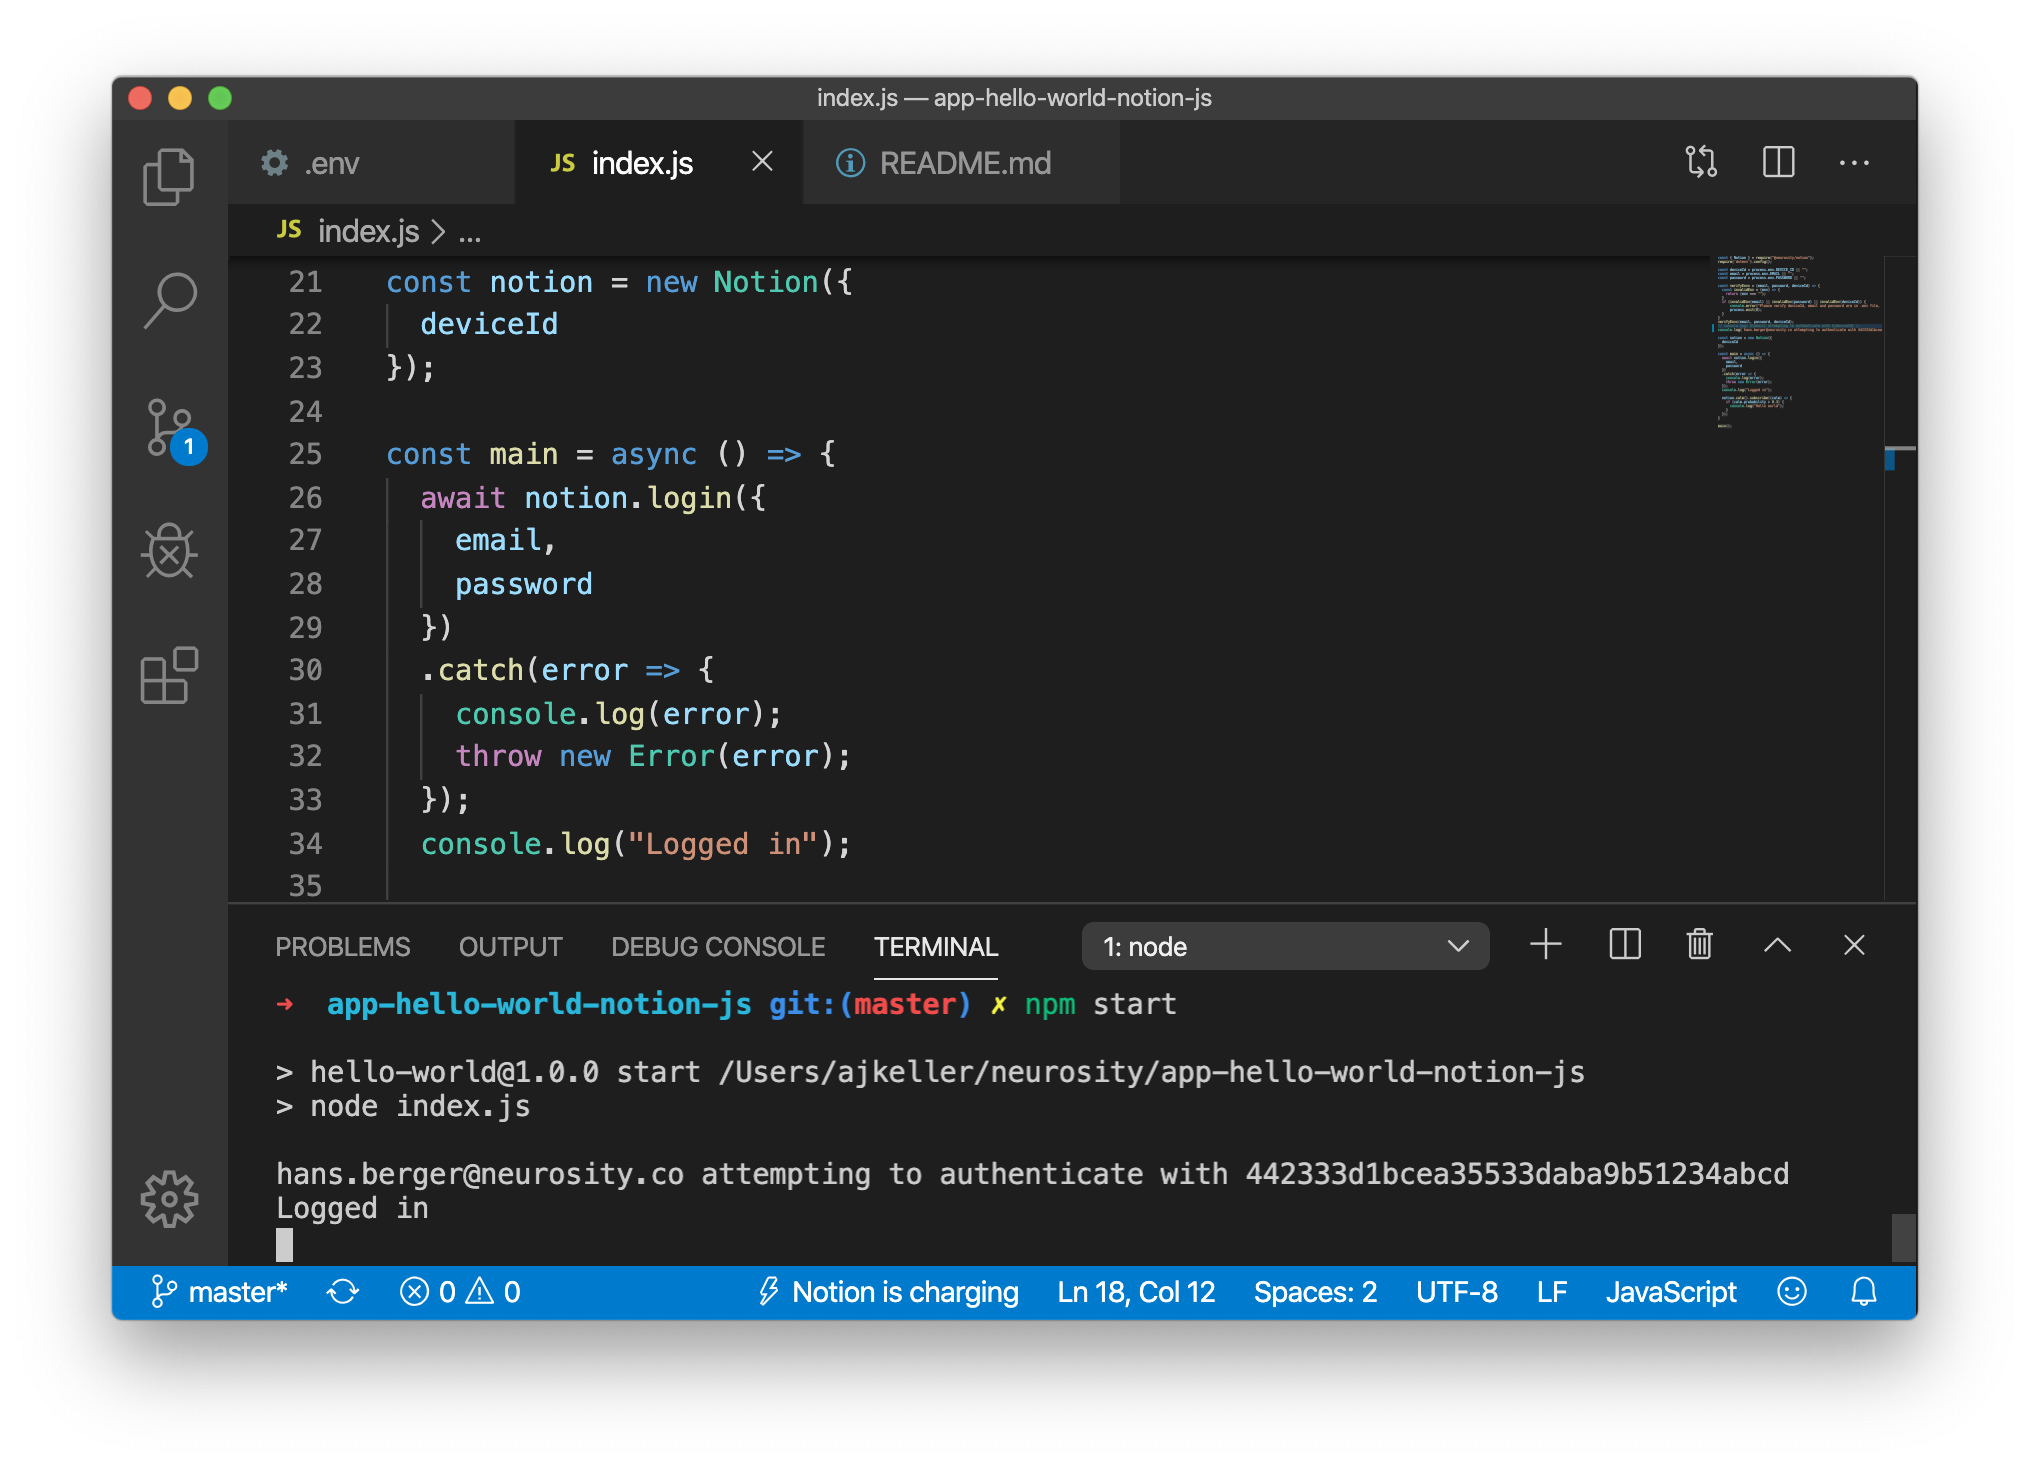
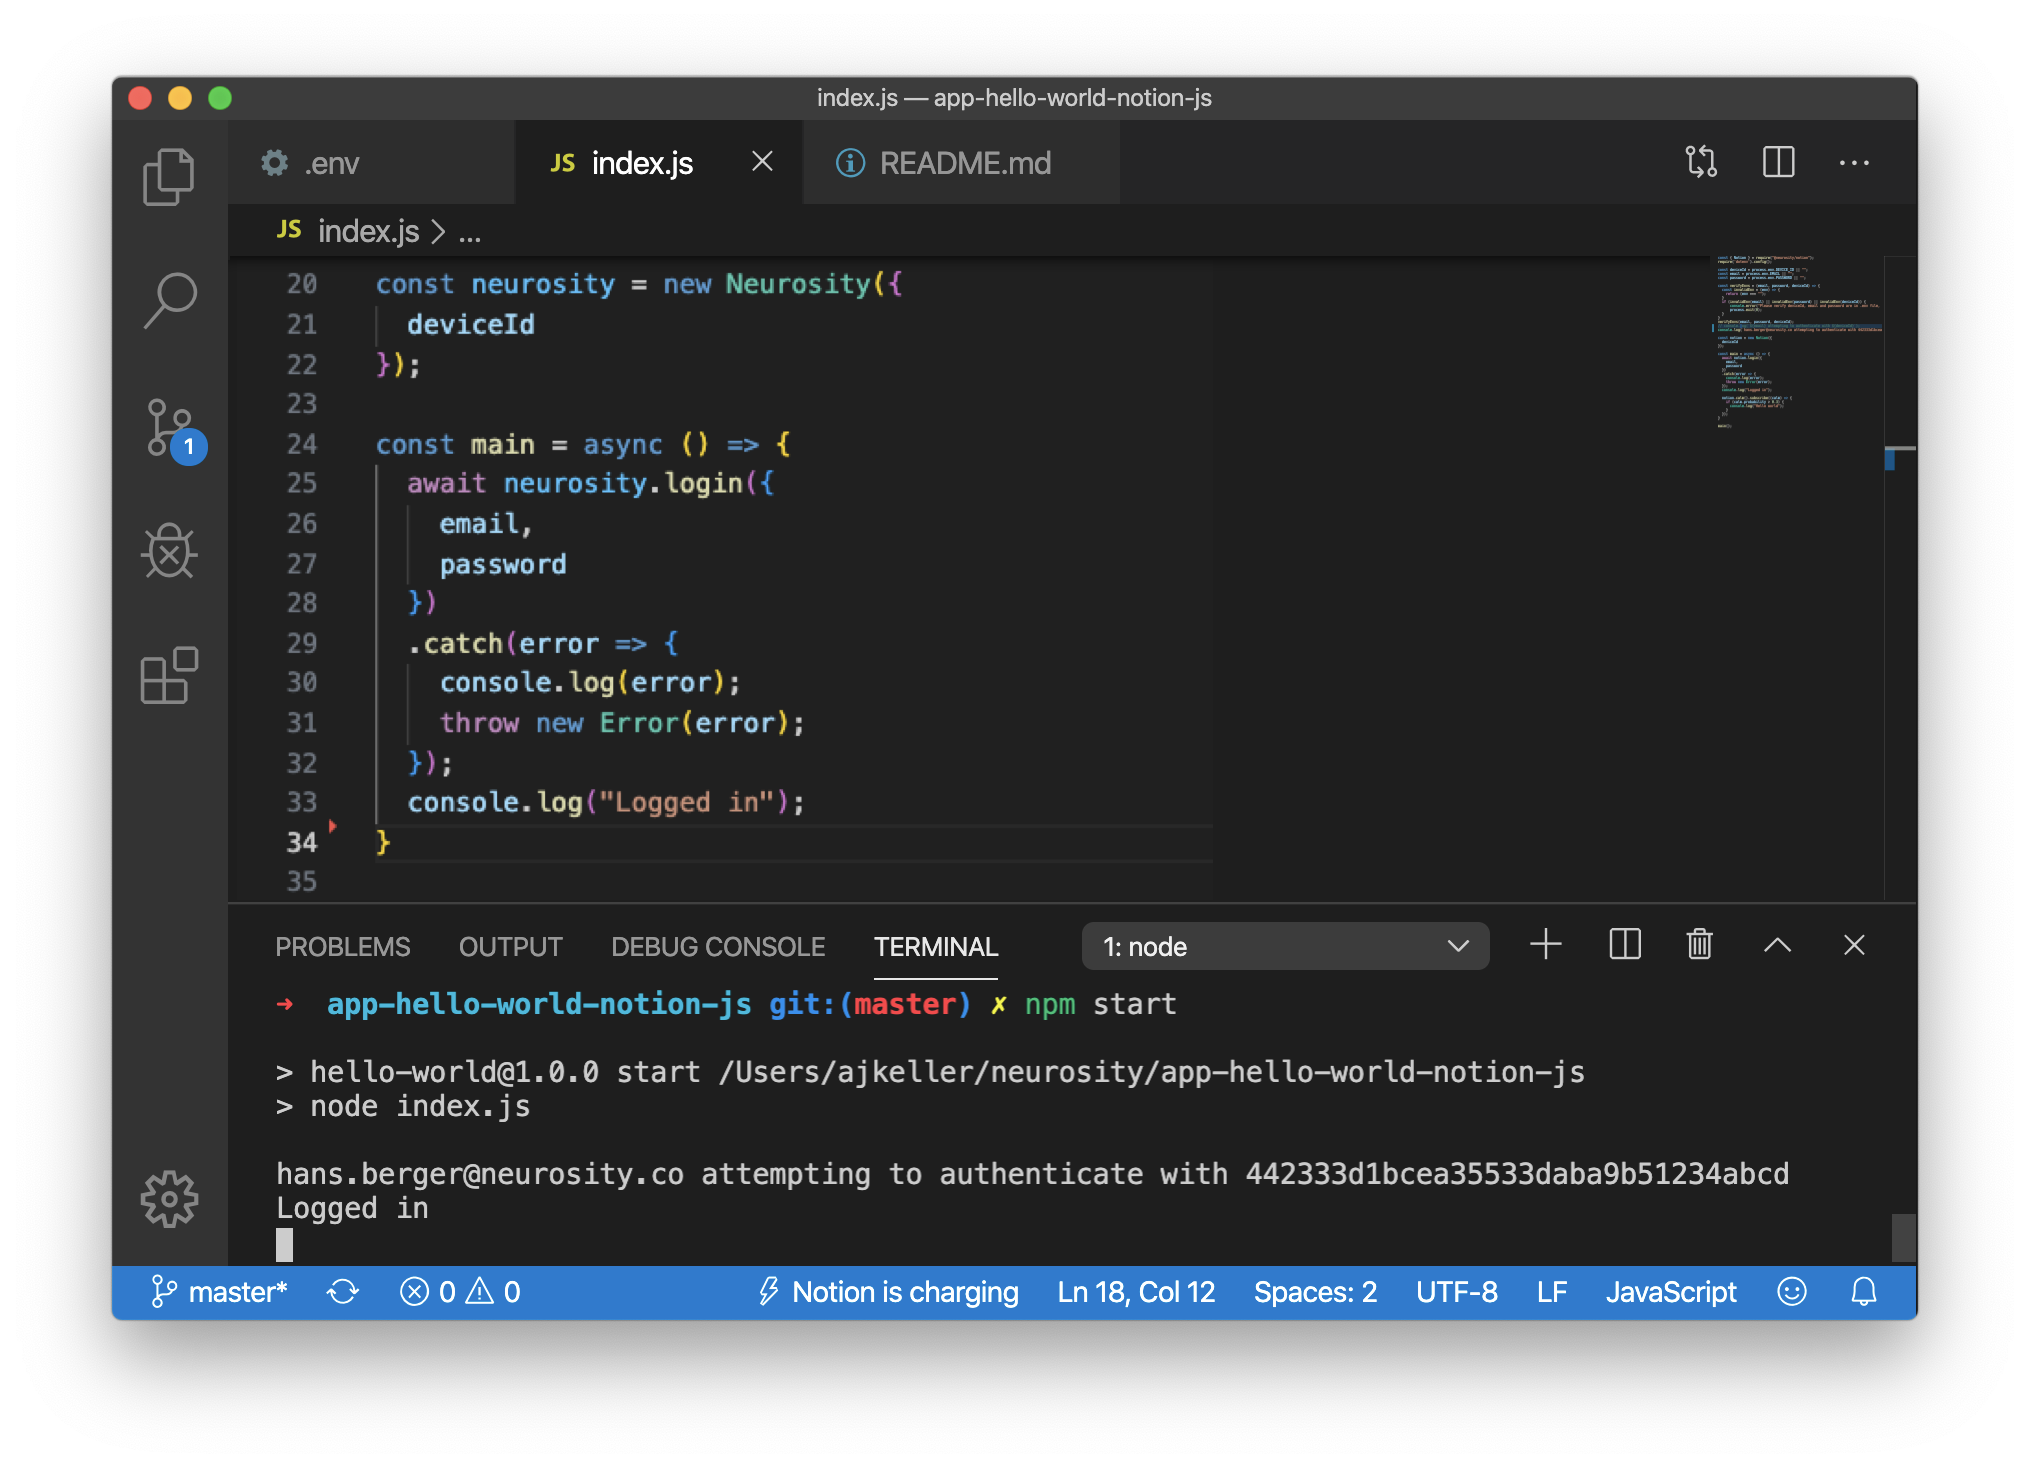
FIX: images and text for latest syntax

diff --git a/docs/tutorials/your-first-node-app.md b/docs/tutorials/your-first-node-app.md
@@ -25,7 +25,7 @@ We'll be using [VSCode](https://code.visualstudio.com/download) to program this 
 
 ### Tutorial Repository
 
-Want to see the complete project before reading anymore? You can view all the code from this project in it's [repository on Github](https://github.com/neurosity/app-hello-world-notion-js).
+Want to see the complete project before reading anymore? You can view all the code from this project in it's [repository on Github](https://github.com/neurosity/app-hello-world-node-js-sdk).
 
 ## Setup your Project
 
@@ -225,9 +225,9 @@ Now, if we run our program, we should see an error print out! Run with `npm star
 Next, we'll add a `.env` to store our deviceId, login, and password. Add a new file called `.env` and add your deviceId, email, and password. Learn how to [find your device ID](https://support.neurosity.co/hc/en-us/articles/360037198152-Get-Notion-Device-ID).
 
 ```.env
-DEVICE_ID=442333d1bcea35533daba9b51234abcd
-EMAIL=hans.berger@neurosity.co
-PASSWORD=Password#1!
+DEVICE_ID="442333d1bcea35533daba9b51234abcd"
+EMAIL="hans.berger@neurosity.co"
+PASSWORD="Password#1!"
 ```
 
 <p align="center">
